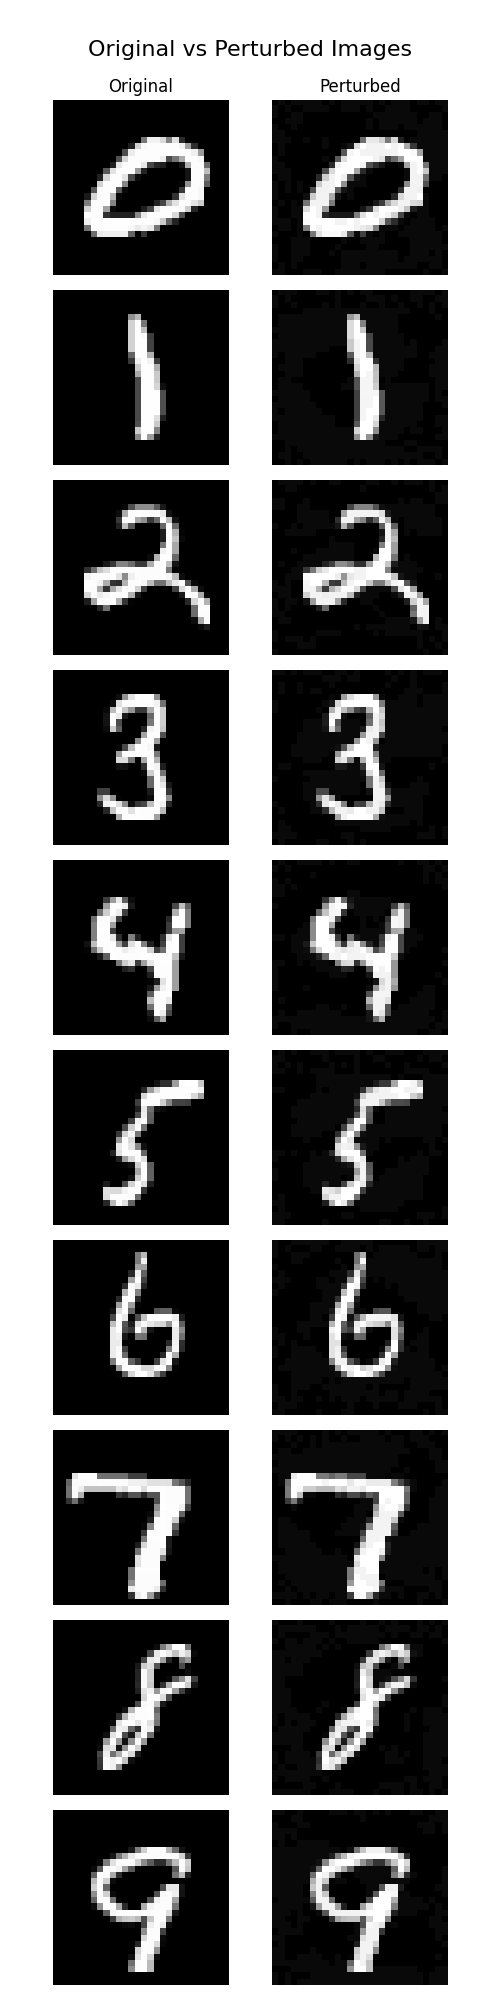
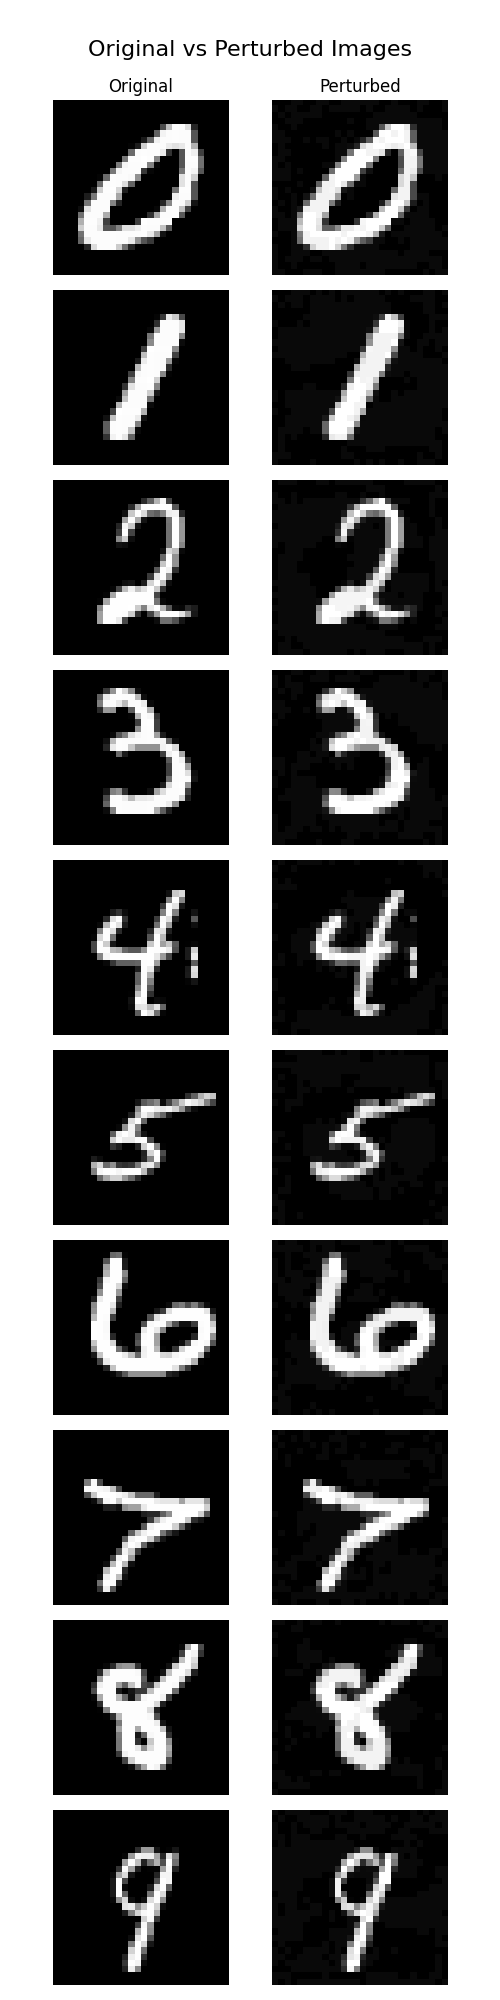
Add image plot for PGD

diff --git a/src/backprop/pgd.py b/src/backprop/pgd.py
@@ -7,6 +7,7 @@ import copy
 import torch
 import os
 from scipy.stats import wasserstein_distance
+import matplotlib.pyplot as plt
 
 class AttackWrapper(nn.Module):
     def __init__(self, snn_model):
@@ -34,6 +35,32 @@ def measure_perturbation(original, adversarial):
     linf_norm = torch.max(torch.abs(perturbation)).item()
     return l0_norm, l1_norm, l2_norm, linf_norm, wass
 
+# Plot unperturbed and perturbed images
+def image_plot(data, pert_data):
+    fig, axes = plt.subplots(nrows=10, ncols=2, figsize=(5, 20))
+    fig.suptitle('Original vs Perturbed Images', fontsize=16)
+
+    axes[0, 0].set_title('Original')
+    axes[0, 1].set_title('Perturbed')
+    for i in range(10):
+        img_orig = data[i].view(28, 28)
+        img_pert = pert_data[i].view(28, 28) 
+
+        # Original image
+        axes[i, 0].imshow(img_orig, cmap='gray')
+        axes[i, 0].axis('off')
+
+        # Perturbed image
+        axes[i, 1].imshow(img_pert, cmap='gray')
+        axes[i, 1].axis('off')
+
+    plt.tight_layout()
+    plt.subplots_adjust(top=0.95)
+
+    save_path = os.path.join("images", "PGD.png")
+    plt.savefig(save_path)
+    plt.show()
+
 def test(net):
     total = 0
     correct = 0
@@ -45,11 +72,16 @@ def test(net):
     linf_norms = []
     wasserstein = []
 
+    image_found = [False, False, False, False, False, False, False, False, False, False]
+    images = [0,0,0,0,0,0,0,0,0,0]
+    pert_images = [0,0,0,0,0,0,0,0,0,0]
+    image_plot_done = False
+
     # drop_last switched to False to keep all samples
     test_loader = DataLoader(mnist_test, batch_size=batch_size, shuffle=True, drop_last=False)
 
     # attack = torchattacks.DeepFool(AttackWrapper(net), steps=20, overshoot=0.02)
-    attack = torchattacks.PGD(AttackWrapper(net), eps=112/2550, alpha=1/255, steps=10, random_start=True)
+    attack = torchattacks.PGD(AttackWrapper(net), eps=13100/255000, alpha=1/255, steps=20, random_start=True)
 
     net.eval()
     for data, targets in test_loader:
@@ -59,6 +91,15 @@ def test(net):
         # print(f"Batch {batch}/{len(test_loader)}")
         # pert_data = deepfool(data, targets, net, attack)
         pert_data = pgd_attack(data, targets, attack)
+
+        if not image_plot_done:
+            for idx, target in enumerate(targets):
+                if not image_found[target]:
+                    images[target] = data[idx]
+                    pert_images[target] = pert_data[idx]
+                    image_found[target] = True 
+                    if all(image_found):
+                        image_plot(images, pert_images)
 
         # measure l2-NORM
         # measure l2-NORM
@@ -86,11 +127,11 @@ def test(net):
     print(f"Average L1-norm: {sum(l1_norms) / len(l1_norms):.2f}")
     print(f"Average L2-norm: {sum(l2_norms) / len(l2_norms):.2f}")
     print(f"Average Linf-norm: {sum(linf_norms) / len(linf_norms):.2f}")
-    print(f"Average Wass-dist: {sum(wasserstein) / len(wasserstein):.2f}")
+    print(f"Average Wass-dist: {sum(wasserstein) / len(wasserstein):.4f}")
 
 def run_pgd():
     model_folder = 'models'
-    model_path = os.path.join(model_folder, 'snn_model_2.pth')
+    model_path = os.path.join(model_folder, 'snn_model.pth')
     net.load_state_dict(torch.load(model_path, map_location=device))
     net.to(device)
     net.eval()
